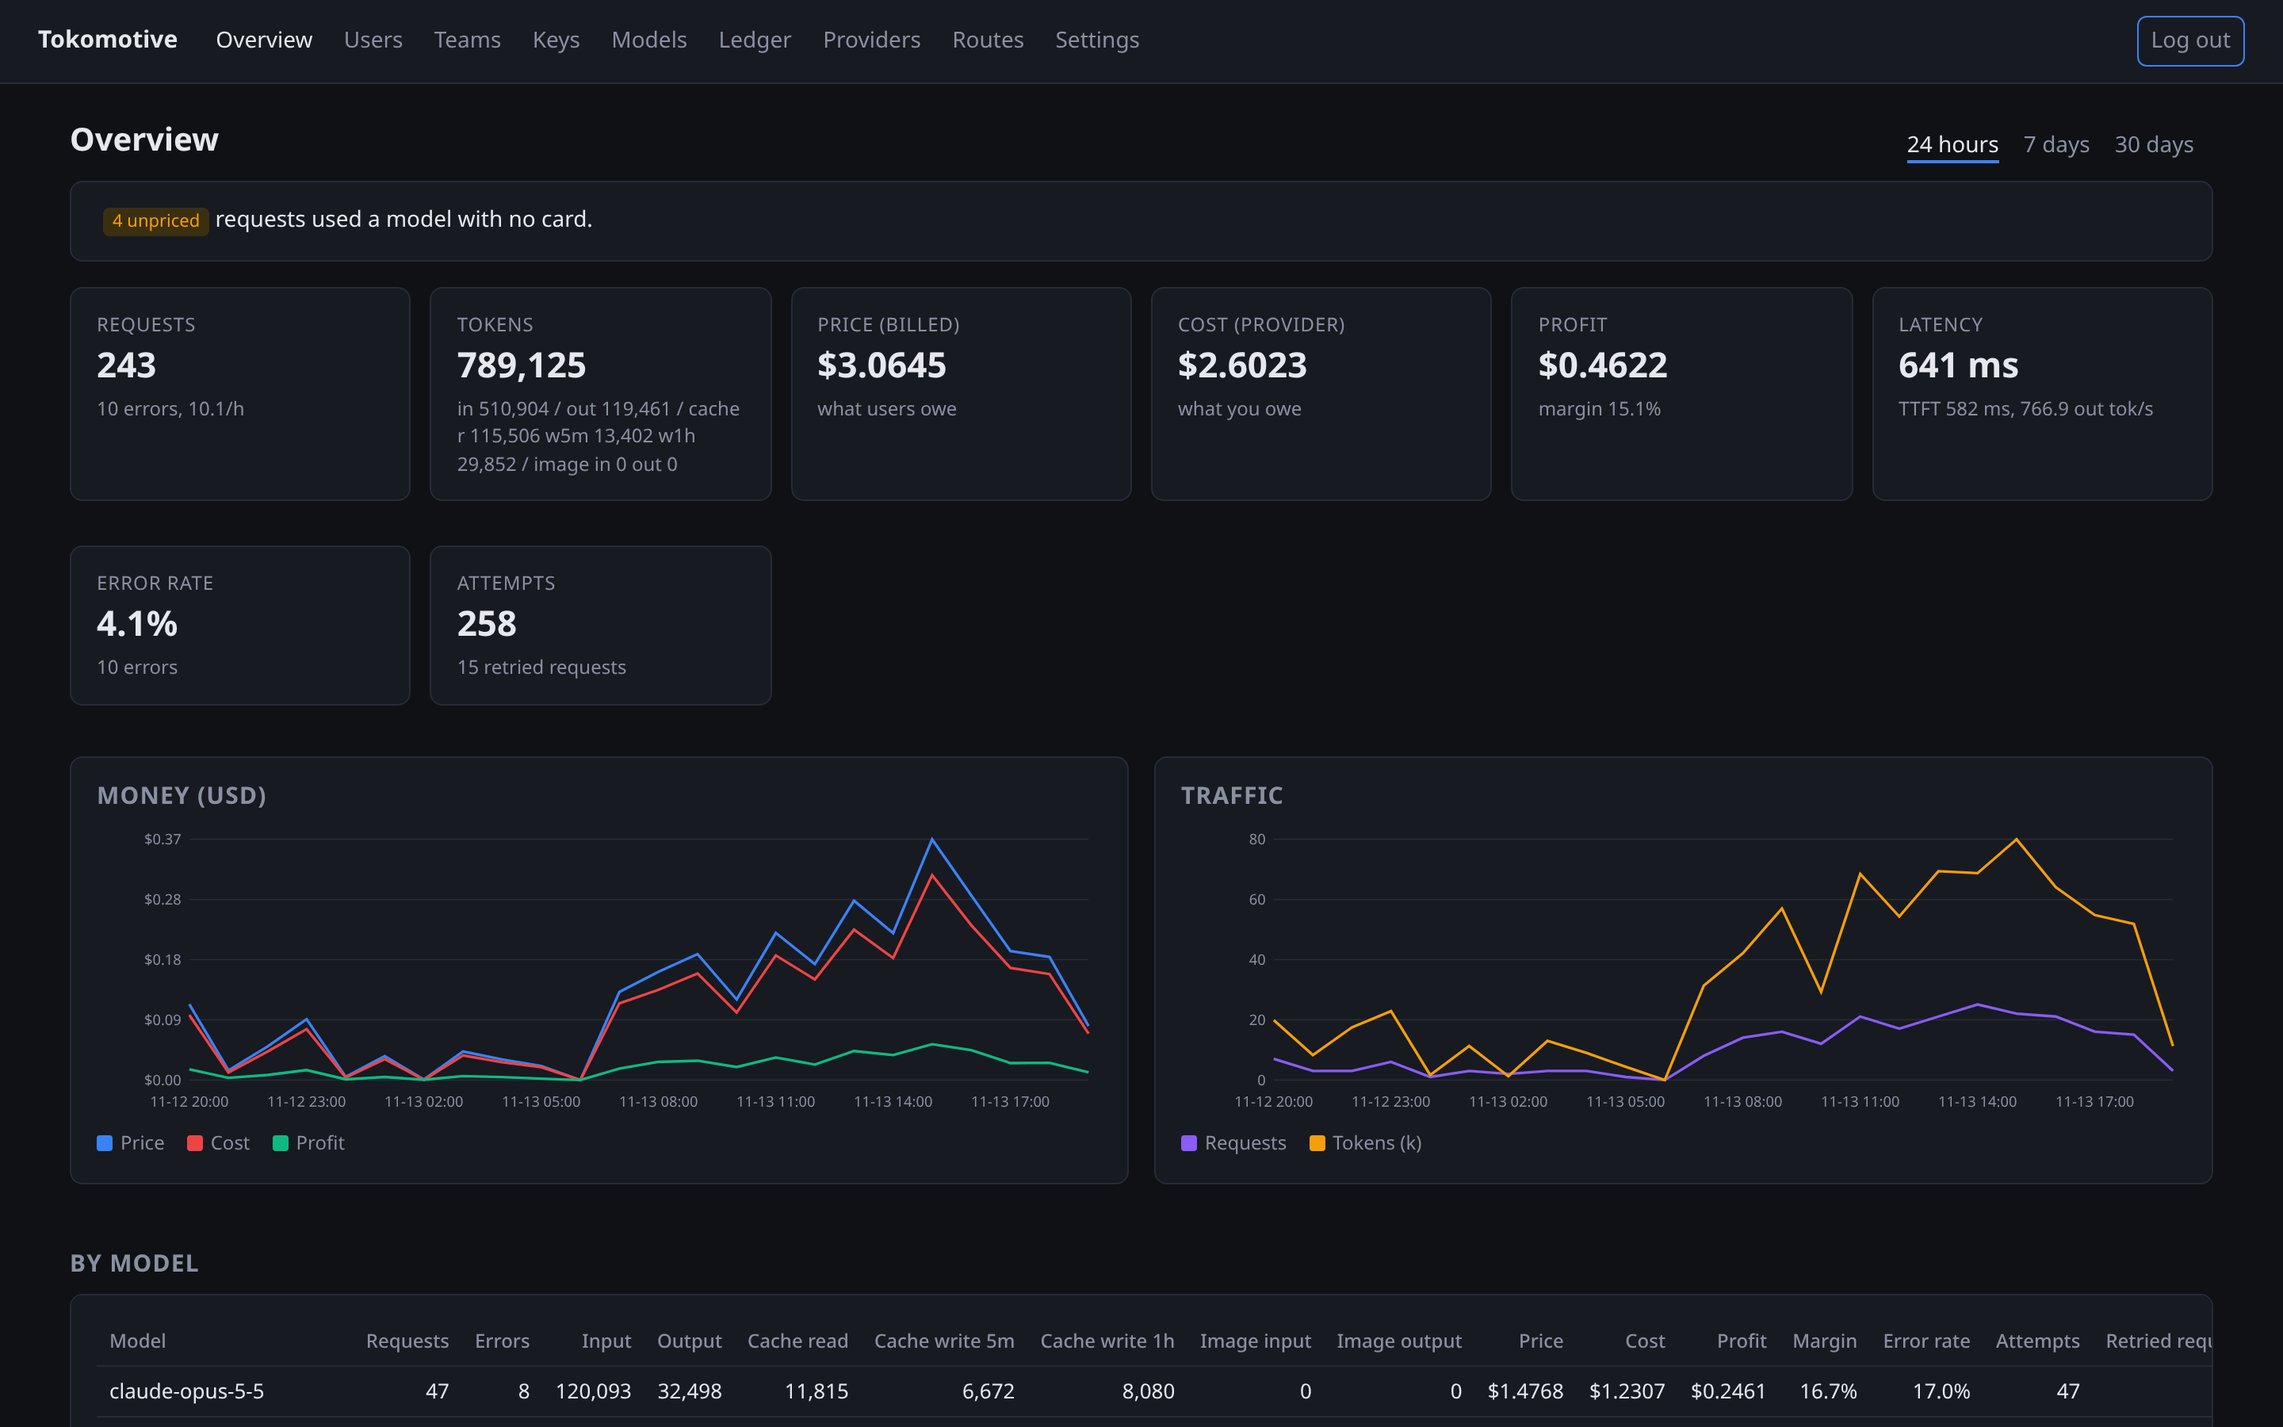
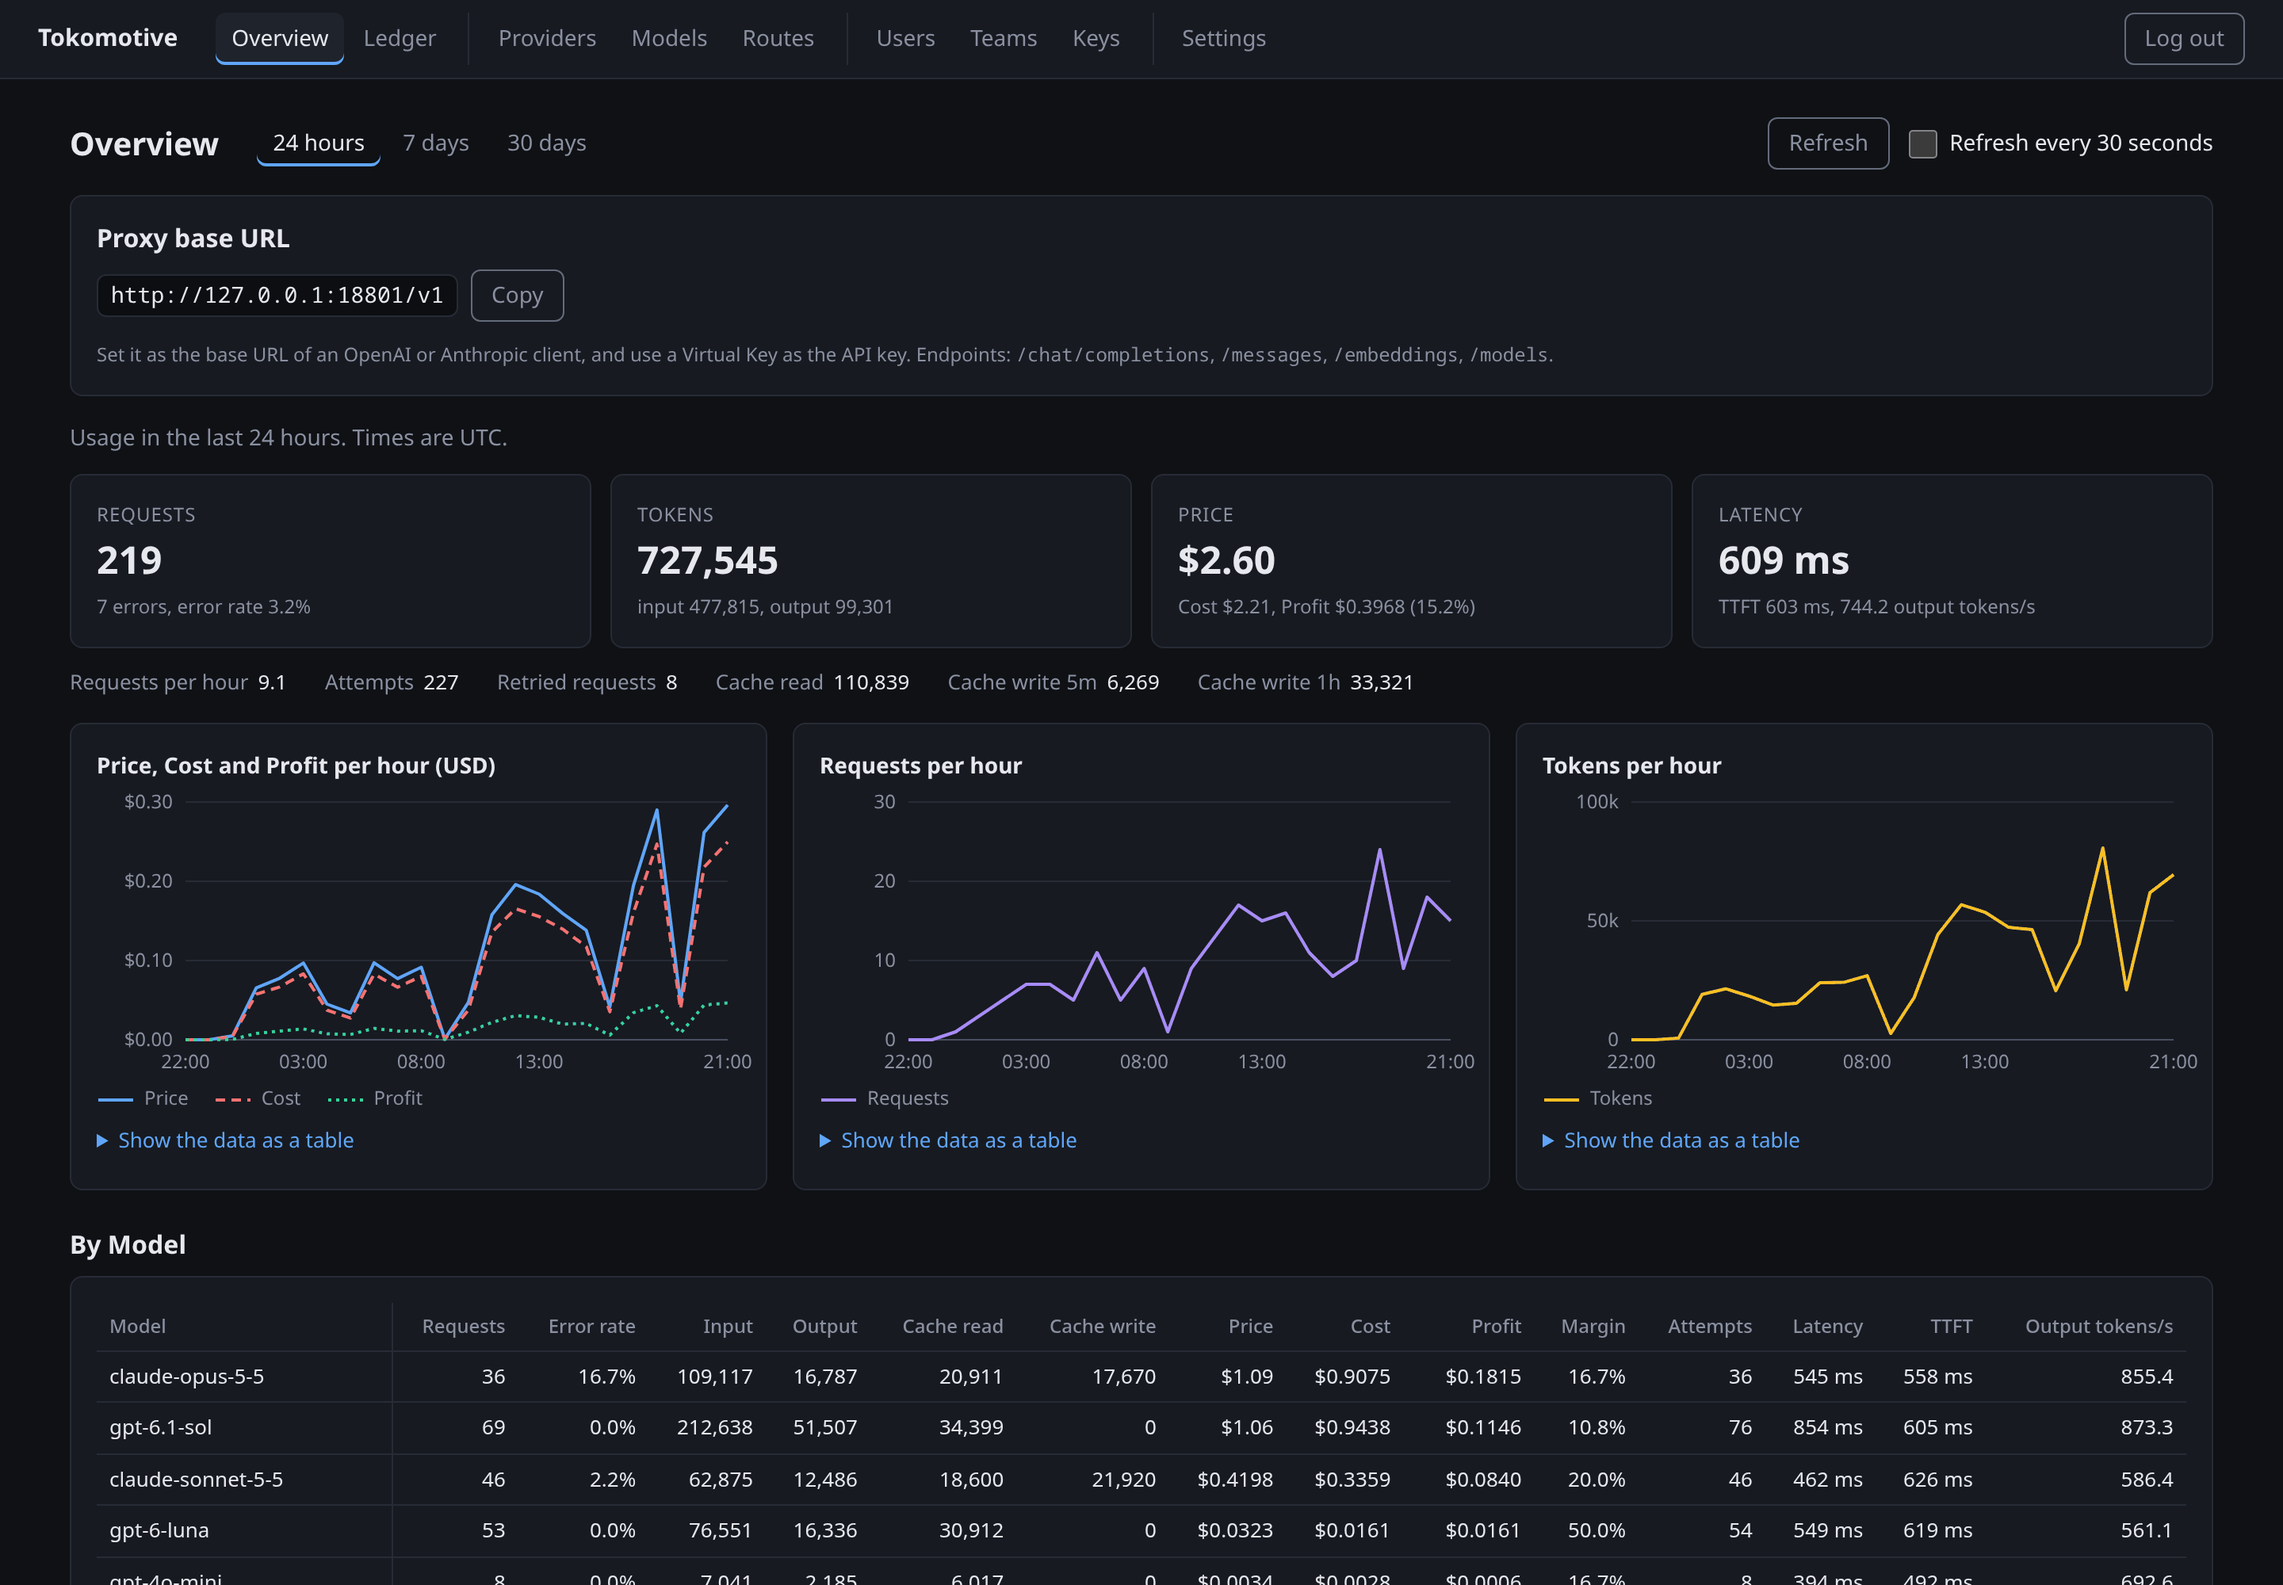
docs: refresh dashboard screenshots after the UI/UX pass

diff --git a/README.md b/README.md
@@ -82,17 +82,18 @@ controls. The default is **Full**. See [usage.md](docs/usage.md#simple-mode).
 
 The screenshots show demo data from a local test server. The keys are not real.
 
-![The Overview page in Full Mode. It shows the totals for 24 hours, a Money chart and a Traffic chart, and the start of the By model table.](docs/images/overview.png)
+![The Overview page in Full Mode. It shows the Proxy base URL, the totals for 24 hours, three charts and the start of the By Model table.](docs/images/overview.png)
 
 ![The Routes page. The Route "smart" uses the weighted strategy with three Deployments on two Providers and two Fallbacks.](docs/images/routes.png)
 
 | Page | What it shows |
 | ---- | ------------- |
-| [Ledger](docs/images/ledger.png) | The newest Ledger Entries with the User, the Provider, the endpoint, the Model, the status and the tokens. |
-| [Providers](docs/images/providers.png) | Two Providers and their Key Pools. The page shows only the last 4 characters of each key. |
+| [Ledger](docs/images/ledger.png) | The newest Ledger Entries with filters. Each row shows the User, the Model and Provider, the status, the flags, the tokens, the amounts and the latency. |
+| [Providers](docs/images/providers.png) | API-key and subscription Providers. The page shows only the last 4 characters of each key, or the name of its environment variable. |
 | [Models](docs/images/models.png) | The Models with their Cost Card rates, Price Cards and Team overrides. |
 | [Model page](docs/images/model.png) | The cards of one Model, two Team overrides and the Card history. |
-| [Users](docs/images/users.png) | The Users with Teams, Budgets, Rate Limits and the spend in this period. |
+| [Users](docs/images/users.png) | The Users with their Teams, Budgets, Rate Limits and spend. Edit opens one form for each User. |
+| [Keys](docs/images/keys.png) | The form to add a Virtual Key with Provider Access and Rate Limits, and the active keys. |
 | [Overview in Simple Mode](docs/images/overview-simple.png) | The Overview without money data: requests, tokens, latency, errors and attempts. |
 
 ## Quick start
